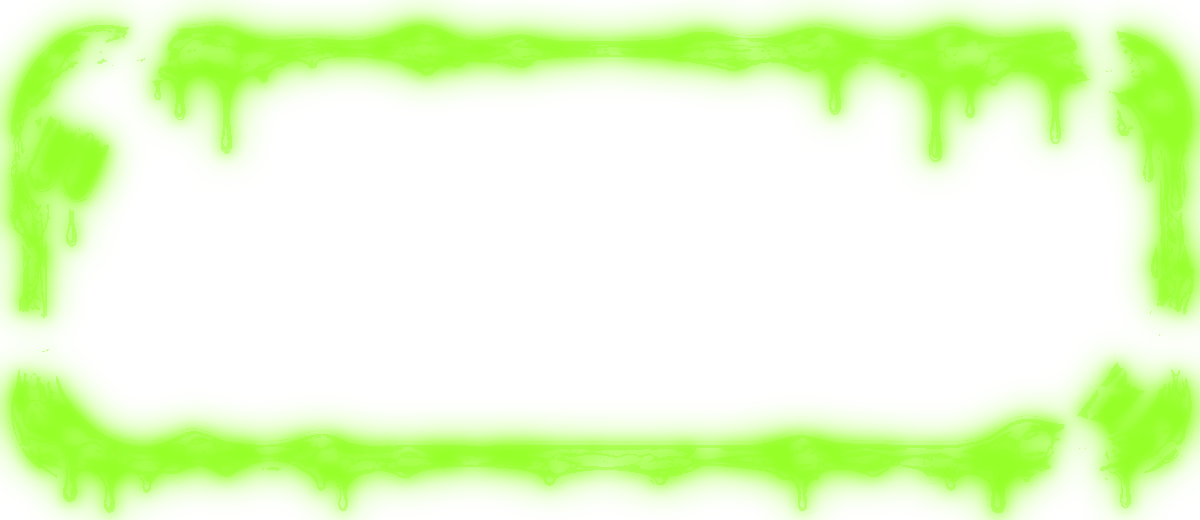
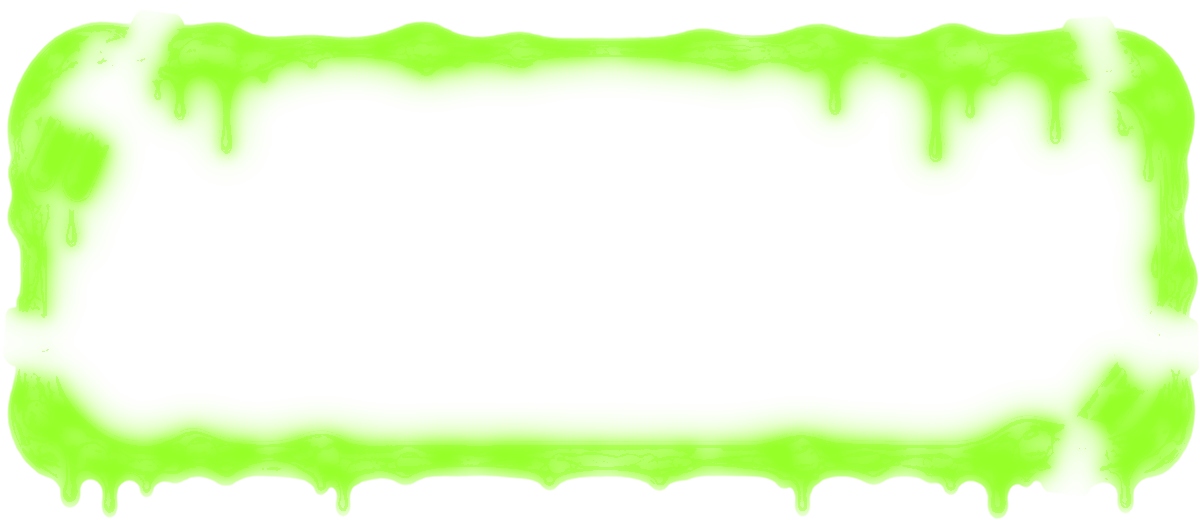
Карточка Утилизатора: свечение слизи не выходит за контур рамки
Claude-Session: https://claude.ai/code/session_01XtpZhZabEYUcJEQKQgYpHe

diff --git a/src/app/screens.css b/src/app/screens.css
@@ -1874,7 +1874,7 @@ button.bjt-stack { cursor: pointer; }
 .bcard.bcard-boss-utilizator .bcard-name { text-shadow: 0 2px 0 rgba(0, 0, 0, 0.65), 0 0 12px rgba(170, 255, 40, 0.3); }
 .bcard.bcard-boss-utilizator .bcard-reward { background: rgba(0, 0, 0, 0.4); box-shadow: inset 0 0 0 1.5px rgba(170, 255, 40, 0.3); }
 .bcard.bcard-boss-utilizator::before { display: block; content: ""; position: absolute; inset: 0; z-index: 3; height: auto; pointer-events: none;
-  border-style: solid; border-width: 40px; border-color: transparent; border-image: url("/assets/ui/utilizator-slime-glow.webp?v=1") 130 fill / 40px stretch;
+  border-style: solid; border-width: 40px; border-color: transparent; border-image: url("/assets/ui/utilizator-slime-glow.webp?v=2") 130 fill / 40px stretch;
   mix-blend-mode: screen; animation: ut-card-glow 2.6s ease-in-out infinite; }
 @keyframes ut-card-glow { 0%, 100% { opacity: 0.2; } 50% { opacity: 0.75; } }
 .bcard.bcard-boss-utilizator::after { content: ""; position: absolute; inset: 0; z-index: 4; pointer-events: none; mix-blend-mode: screen; opacity: 0.75;

diff --git a/tools/ui/utilizator-card.py b/tools/ui/utilizator-card.py
@@ -2,7 +2,7 @@
 Утилизатор's boss card (the artist's two layers, 1200×520, in place): the rusty hazard plate (tools/ui/source/utilizator-plate.png)
 under the acid slime frame (utilizator-slime.png) → public/assets/ui/boss-card-frame-utilizator.webp (the nine-slice frame),
 and for the slime's light (screens.css «Утилизатор's card»):
-  utilizator-slime-glow.webp — the slime brightened plus a soft green halo round it (screen-blended, pulses),
+  utilizator-slime-glow.webp — the slime brightened plus a soft green halo, kept inside the card's outline (screen-blended, pulses),
   utilizator-slime-mask.webp — the slime's own shape (the glint runs only over it).
 """
 import numpy as np
@@ -32,7 +32,10 @@ for r, k in [(18, 0.9), (7, 0.8)]:
     halo.alpha_composite(Image.fromarray(ha))
 core = np.array(lit); core[..., 3] = (core[..., 3] * 0.45).astype(np.uint8)
 halo.alpha_composite(Image.fromarray(core))
-halo.save("public/assets/ui/utilizator-slime-glow.webp", quality=88, method=6)
+# the light stays inside the card: no halo outside the frame's own outline (the slime and the plate)
+ha = np.array(halo)
+ha[..., 3] = (ha[..., 3].astype(np.float32) * (np.array(frame)[..., 3] / 255)).astype(np.uint8)
+Image.fromarray(ha).save("public/assets/ui/utilizator-slime-glow.webp", quality=88, method=6)
 
 m = np.zeros_like(a); m[..., :3] = 255; m[..., 3] = a[..., 3]
 Image.fromarray(m).save("public/assets/ui/utilizator-slime-mask.webp", quality=90, method=6)
